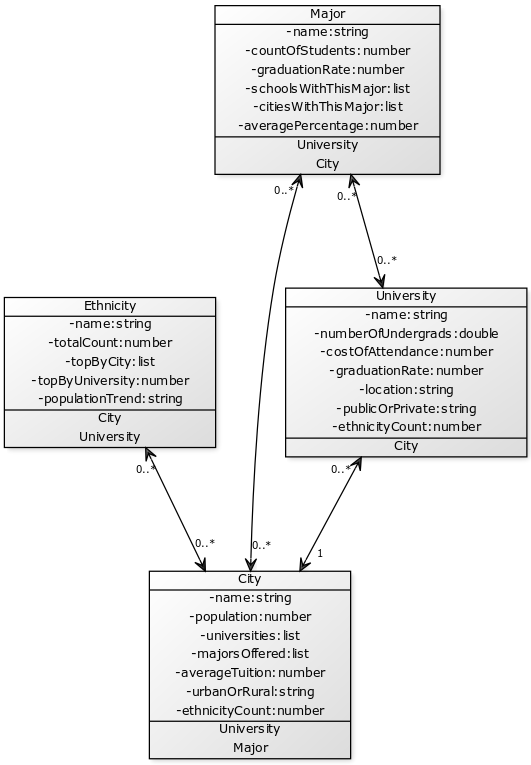
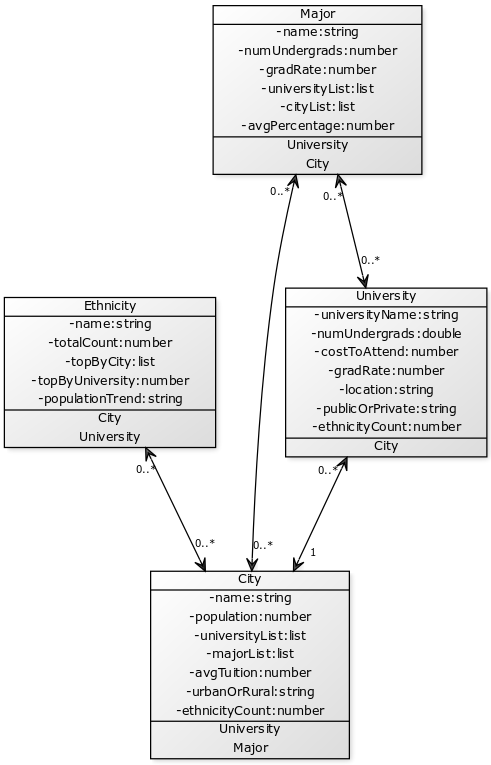
Updated UML and worked on models.py

diff --git a/project/models.py b/project/models.py
@@ -1,78 +1,127 @@
-class University(db.Model):
-	id = db.Column(db.Integer, primary_key=True)
-	universityName = db.Column(db.String(80))
-	studentCount = db.Column(db.Integer)
-	costToAttend = db.Column(db.Integer)
-	salaryAfterGrad = db.Column(db.Integer)
-	gradRate = db.Column(db.Float)
-    location = db.Column(db.String(80), db.ForeignKey('city.id'))
-    publicPrivate = db.Column(db.String(80))
+from flask import Flask
+from flask_sqlalchemy import SQLAlchemy
 
-    def __init__(self, studentCount, costToAttend, salaryAfterGrad, gradRate, location, publicPrivate):
-        self.studentCount = studentCount
-        self.costToAttend = costToAttend
-        self.salaryAfterGrad = salaryAfterGrad
-        self.gradRate = gradRate
-        self.location = location
-        self.publicPrivate = publicPrivate
+app = Flask(__name__)
+app.config['SQLALCHEMY_DATABASE_URI'] = 'postgresql://localhost/swe'
 
-    def __repr__(self):
-        return '<University %r>' % self.universityName
-
-class City(db.Model):
-	id = db.Column(db.Integer, primary_key=True)
-	cityName = db.Column(db.String(80))
-	Population = db.Column(db.Integer)
-	universityCount = db.relationship('University', backref='city', lazy='dynamic')
-	majors = db.relationship('Major', backref='city', lazy='dynamic')
-	avgTuition = db.Column(db.Integer)
-    urbanRural = db.Column(db.String(80))
-
-
-    def __init__(self, studentCount, costToAttend, salaryAfterGrad, gradRate, location, publicPrivate):
-        self.studentCount = studentCount
-        self.costToAttend = costToAttend
-        self.salaryAfterGrad = salaryAfterGrad
-        self.gradRate = gradRate
-        self.location = location
-        self.publicPrivate = publicPrivate
-
-    def __repr__(self):
-        return '<University %r>' % self.universityName
-
+db = SQLAlchemy(app)
 
 tags = db.Table('tags',
     db.Column('city_id', db.Integer, db.ForeignKey('city.id')),
     db.Column('major_id', db.Integer, db.ForeignKey('major.id'))
 )
 
+class University(db.Model):
+	'''
+	TODO: documentation
+	'''
+	__tablename__ = 'UNIVERSITY'
+	id = db.Column(db.Integer, primary_key=True)
+	name = db.Column(db.String(80))
+	numUndergrads = db.Column(db.Integer)
+	costToAttend = db.Column(db.Integer)
+	gradRate = db.Column(db.Float)
+    
+	# todo: relationship
+    location = db.Column(db.String(80), db.ForeignKey('city.id'))
+    
+    publicOrPrivate = db.Column(db.String(80))
 
+    # todo: relationship
+    ethnicityCount = db.Column(db.Integer)
 
-# City Name 
-# 	Population
-# 	Universities in the city
-# 	Majors in the city or most popular
-# 	average tuition in the city
-# 	Urban/Rural
+    def __init__(self, name, numUndergrads, costToAttend, gradRate, location, publicOrPrivate, ethnicityCount):
+        self.name = name
+        self.numUndergrads = numUndergrads
+        self.costToAttend = costToAttend
+        self.gradRate = gradRate
+        self.location = location
+        self.publicOrPrivate = publicOrPrivate
+        self.ethnicityCount = ethnicityCount
 
-# Austin, TX
-# 	1,362,416
-# 	UT Austin
-# 	Journalism, Engineering, Social Sciences
-# 	17,152
-# 	Urban
+    def __repr__(self):
+        return '<University %r>' % self.name
 
-# Los Angeles, CA
-# 	12,150,996
-# 	University of Southern California
-# 	Journalism, Engineering, Social Sciences
-# 	28,344
-# 	Urban
+class City(db.Model):
+	'''
+	TODO: documentation
+	'''
+	__tablename__ = 'CITY'
+	id = db.Column(db.Integer, primary_key=True)
+	name = db.Column(db.String(80))
+	population = db.Column(db.Integer)
+	
+	# todo: relationship
+	universityList = db.relationship('University', backref='city', lazy='dynamic')
+	majorList = db.relationship('Major', backref='major', lazy='dynamic')
+	
+	avgTuition = db.Column(db.Integer)
+    urbanOrRural = db.Column(db.String(80))
 
+    # todo: relationship
+    ethnicityCount = db.Column(db.Integer)
 
-# Charlottesville, VA
-# 	92,359
-# 	University of Virginia-Main Campus
-# 	Engineering, Social Sciences
-# 	17,863
-# 	Urban
+    def __init__(self, name, population, universityList, majorList, avgTuition, urbanOrRural, ethnicityCount):
+		self.name = name
+		self.population = population
+		self.universityList = universityList
+		self.majorList = majorList
+		self.avgTuition = avgTuition
+		self.urbanOrRural = urbanOrRural
+		self.ethnicityCount	= ethnicityCount        
+
+    def __repr__(self):
+        return '<City %r>' % self.name
+
+class Major(db.Model):
+	'''
+	TODO: documentation
+	'''
+	__tablename__ = 'MAJOR'
+	id = db.Column(db.Integer, primary_key=True)
+	name = db.Column(db.String(80))
+	numUndergrads = db.Column(db.Integer)
+	gradRate = db.Column(db.Float)
+    
+	# todo: relationship
+	universityList = db.relationship('University', backref='city', lazy='dynamic')
+	cityList = db.relationship('City', backref='city', lazy='dynamic')
+	
+	avgPercentage = db.Column(db.Float)
+	
+    def __init__(self, name, numUndergrads, gradRate, universityList, cityList, avgPercentage):
+        self.name = name
+		self.numUndergrads = numUndergrads
+		self.gradRate = gradRate
+		self.universityList = universityList
+		self.cityList = cityList
+		self.avgPercentage = avgPercentage
+
+    def __repr__(self):
+        return '<Major %r>' % self.name
+
+class Ethnicity(db.Model):
+	'''
+	TODO: documentation
+	'''
+	__tablename__ = 'ETHNICITY'
+	id = db.Column(db.Integer, primary_key=True)
+	name = db.Column(db.String(80))
+	totalCount = db.Column(db.Integer)
+	
+	# todo:	relationship
+	topByCity = db.relationship('City', backref='city', lazy='dynamic')
+	topByUniversity = db.relationship('University', backref='university', lazy='dynamic')
+    
+    # todo:	relationship
+	populationTrend = db.relationship('Ethnicity', backref='ethnicity', lazy='dynamic')
+
+    def __init__(self, name, totalCount, topByCity, topByUniversity, populationTrend):
+        self.name = name
+		self.totalCount = totalCount
+		self.topByCity = topByCity
+		self.topByUniversity = topByUniversity
+		self.populationTrend = populationTrend
+
+    def __repr__(self):
+        return '<Ethnicity %r>' % self.name

diff --git a/project/app.py b/project/app.py
@@ -1,14 +1,14 @@
-from flask import Flask
-
-app = Flask(__name__)
+from flask import Flask, render_template
+ 
+app = Flask(__name__, static_url_path='/templates')
+ 
+@app.route('/<string:page_name>/')
+def render_static(page_name):
+    return render_template('%s' % page_name)
 
 @app.route('/')
-def index():
-    return "hello cs373f"
-
-@app.route('/books')
-def books():
-    return "This is the books page"
-
+def render_home():
+    return render_template('index.html')
+ 
 if __name__ == "__main__":
     app.run()
